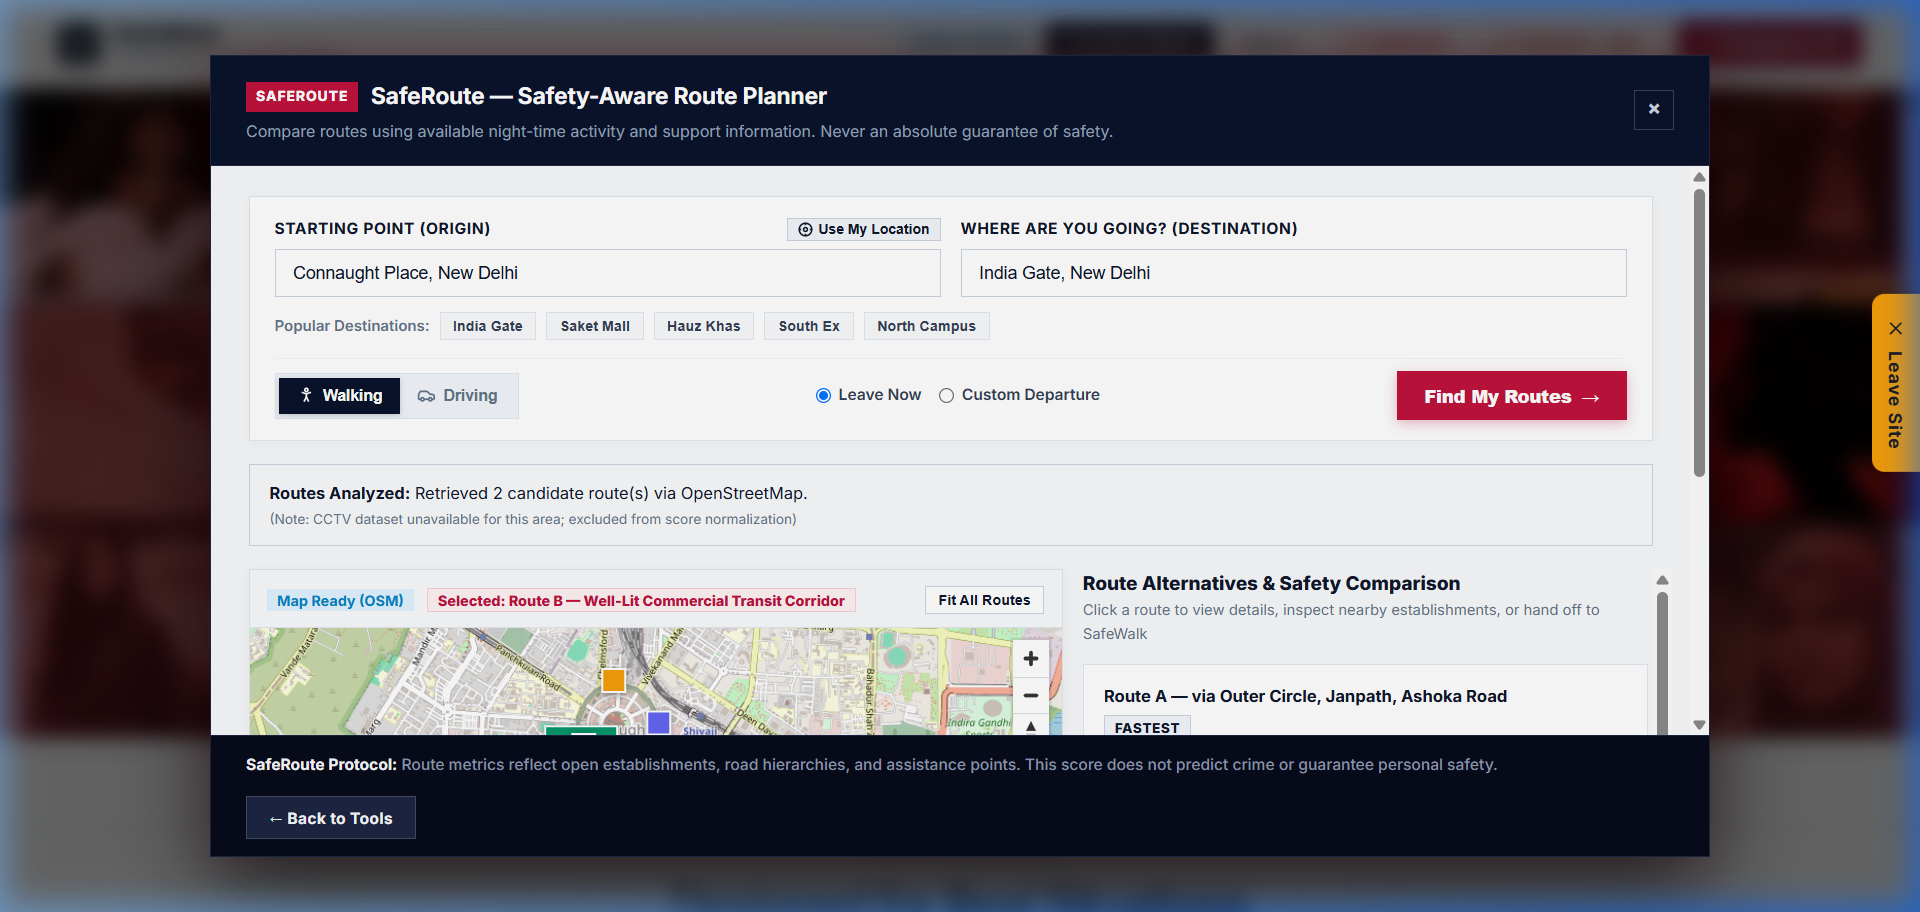
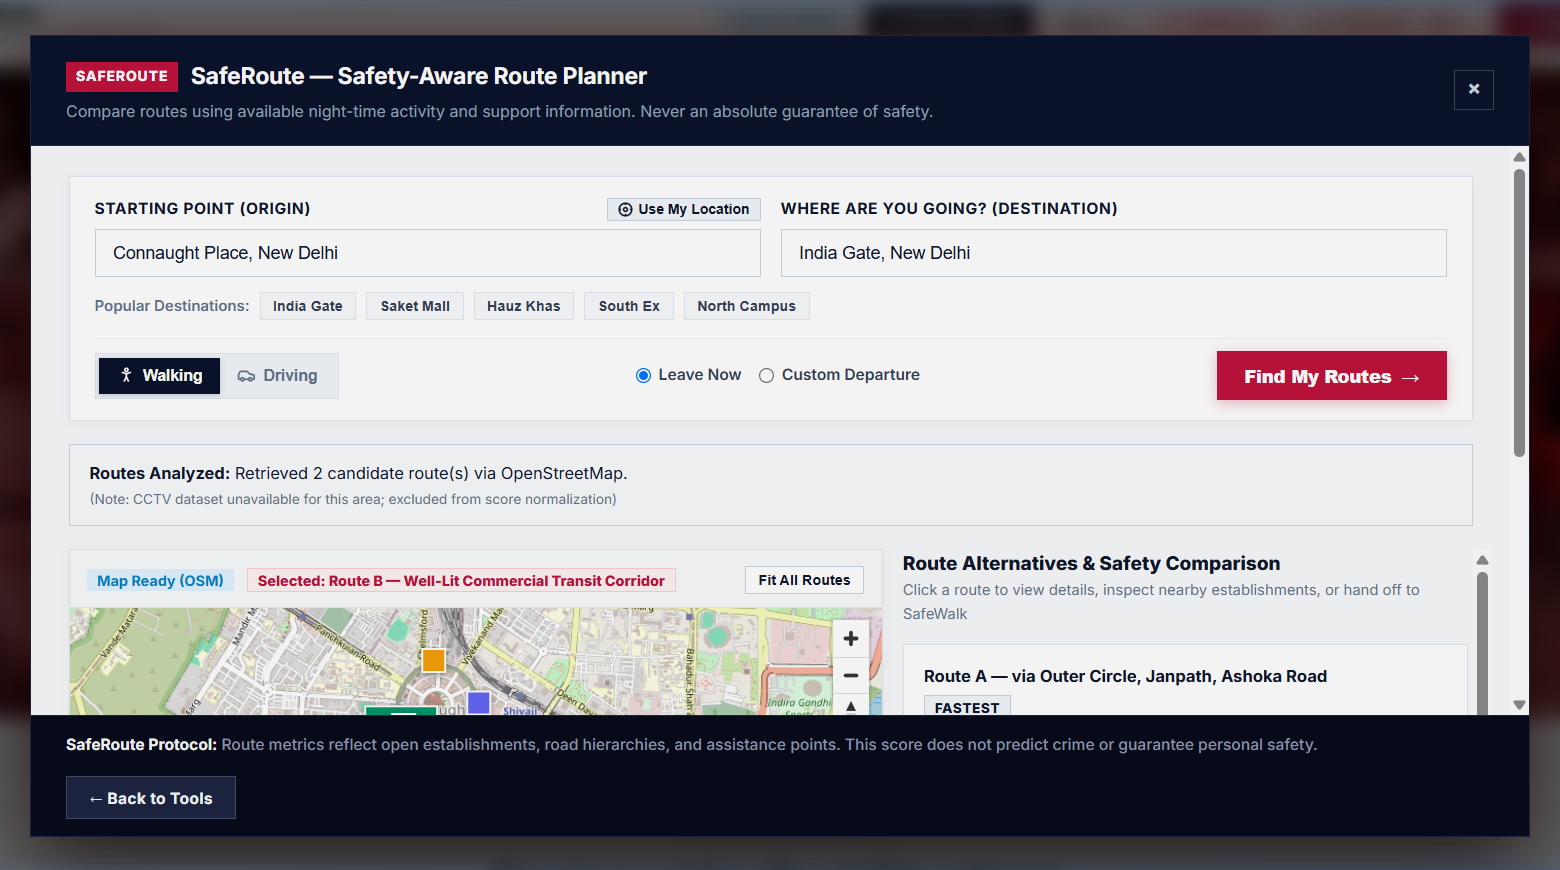
docs(readme): embed staged AI image and SafeRoute screenshots in documentation

diff --git a/README.md b/README.md
@@ -136,7 +136,14 @@ In parallel, Tell-Once formats a structured legal brief for legal defense advoca
 #### Scene 9: ACTION & OUTPUT — Disproving Morphed Blackmail Images (AI Still-Image Scanner)
 Extortionists frequently manipulate innocent photographs into sexually explicit deepfakes to terrorize survivors. SafeMate provides in-memory forensic screening to prove manipulation:
 
-![AI Deepfake and Media Manipulation Screening Engine](docs/screenshots/09_deepfake_scan_result.png)
+![AI Image Screening: Staged Image with In-Memory SHA-256 Fingerprint](docs/screenshots/18_deepfake_image_upload_staged.png)
+
+* **Client-Side SHA-256 Custody Hash:** Calculates an immutable cryptographic fingerprint (`b0ae04187386c...`) in volatile RAM prior to inspection to maintain evidentiary provenance under BSA Section 63.
+* **Instant Forensic Samples:** Test directly with real photographic fixtures or drag-and-drop suspect images (JPG, PNG, WEBP).
+
+When the survivor or evaluator triggers the scan, SafeMate renders the full forensic verdict card:
+
+![AI Deepfake and Media Manipulation Screening Engine Verdict](docs/screenshots/09_deepfake_scan_result.png)
 
 * **Neural Transformer Architecture:** Powered by a pre-trained **Swin Transformer** (`umm-maybe/AI-image-detector`) trained to isolate diffusion noise residuals and generator artifacts.
 * **Forensic Verdict Card:** A dedicated, non-collapsing verdict hub presenting **Critical Alert** or **Verified Authentic** status, 96.8% quantitative confidence, and comparative dual meters (Synthetic Likelihood vs Natural Authenticity).
